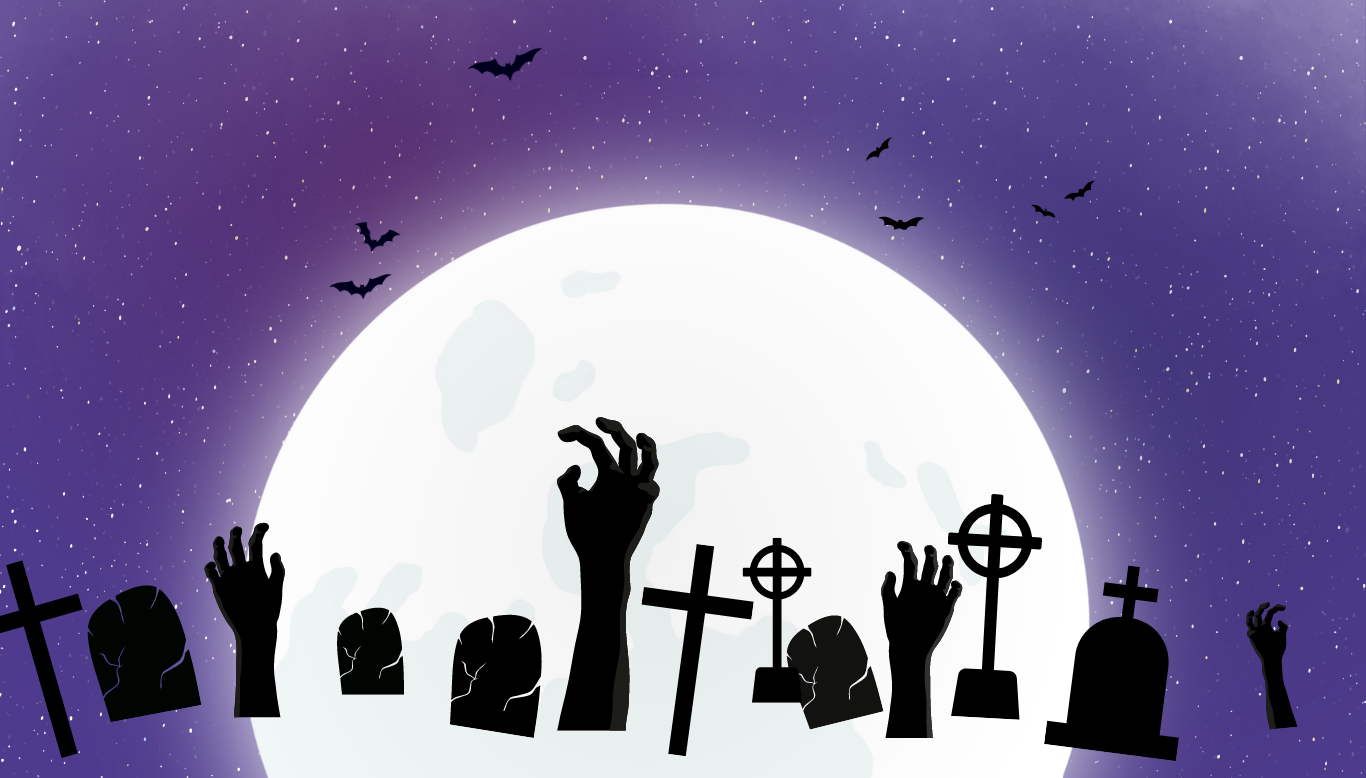
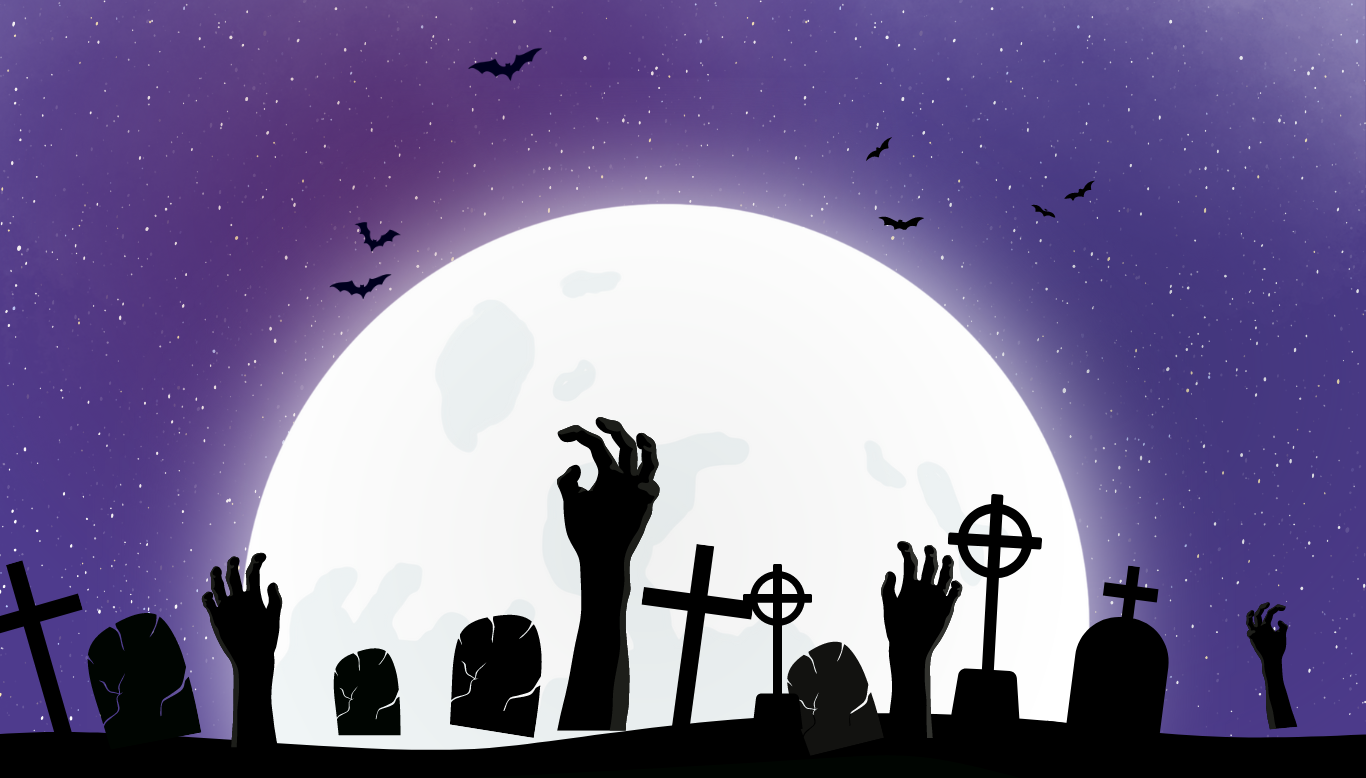
minigame新增gsap動畫、img照片

Changed region(s): [[0.0, 0.6787, 1.0, 1.0]]

diff --git a/minigame.html b/minigame.html
@@ -6,6 +6,13 @@
     <meta charset="UTF-8">
     <meta name="viewport" content="width=device-width, initial-scale=1.0">
     <link rel="stylesheet" href="./src/assets/css/style.css">
+    <script src="https://cdn.jsdelivr.net/npm/gsap@3.12/dist/gsap.min.js"></script>
+    <!-- gsap滾動 -->
+    <script src="https://cdnjs.cloudflare.com/ajax/libs/gsap/3.7.1/ScrollTrigger.min.js"></script>
+    <!-- 分割字元 -->
+    <script src="https://unpkg.com/split-type"></script>
+    <!-- 平滑滾動效果 -->
+    <script src="https://cdn.jsdelivr.net/gh/studio-freight/lenis@1.0.19/bundled/lenis.min.js"></script>
     <title>謎因工作室 | 線上小遊戲</title>
 </head>
 
@@ -21,65 +28,18 @@
     </section>
 
     <section class="sec">
-        <h2>123</h2>
-        <p>在遙遠的小鎮外圍，有一片古老的墓園，這裡隱藏著一個神秘的傳說。墓園中埋葬著一群偉大的守護者，他們曾經保護著一個充滿奇蹟與力量的秘境。這個秘境被稱為「永恆之園」，其中蘊藏著改變命運的力量。為了防止這股力量被濫用，守護者們在生命的最後，決定將秘境的入口封印在墓園深處，並將自己的靈魂綁定在這片土地上，成為詛咒的守衛者。
-        </p>
-        <br>
-        <p>Lorem ipsum dolor sit, amet consectetur adipisicing elit. Vero, placeat magni totam ipsum soluta blanditiis
-            tempore repudiandae rem ex quos fugiat, harum illo optio dolorum, reprehenderit nobis ea omnis doloremque.
-            Rem explicabo harum minima fuga placeat inventore porro vero unde nisi, rerum quo ut deserunt commodi dicta
-            quos, cumque maiores fugit voluptatum veritatis. Aspernatur, magnam mollitia ipsam libero tenetur suscipit.
-            Eligendi ad perspiciatis pariatur, deleniti reiciendis ipsa dolorum dicta aliquid impedit eius doloremque
-            recusandae illo! Tempora, porro dolores. Labore tempore illo nobis fugit. Voluptatum assumenda, vitae
-            incidunt aut voluptas voluptates!
-            Veritatis consequatur dolorem recusandae ex vitae ipsum accusamus repellendus asperiores, molestiae
-            voluptatem. Ullam possimus dolorem dicta repudiandae alias, iusto, magni iste inventore rem commodi maxime,
-            enim aliquid corrupti quibusdam ipsam.
-            Dicta, fuga inventore. Fugit totam, a ea quidem quaerat porro minima explicabo praesentium. Sint
-            exercitationem alias ipsum excepturi modi consectetur aliquam ut itaque eaque, autem neque quod, corporis
-            provident. Optio.
-            Porro enim, perferendis sapiente ratione recusandae similique ipsum eos illum libero unde maiores omnis
-            dolorum dolorem voluptatem tempora corporis earum provident, quasi a explicabo! Iure accusantium amet
-            assumenda fuga dolorem?
-            Libero, itaque magni sed, quaerat, hic illo optio aut voluptate obcaecati repellat officia neque deserunt
-            repellendus perspiciatis voluptatem expedita! Sequi fugiat ipsam sint quasi, soluta mollitia vel quaerat
-            eligendi velit?
-            Consequuntur sit veritatis eaque, dicta accusantium ipsa voluptates fugiat eligendi ea molestias explicabo
-            odit hic vitae! Voluptates nisi fuga unde sequi eos? Sint atque est laborum. Harum animi velit saepe.
-            Ea obcaecati esse sequi quis id quasi ipsa, fugiat aut corrupti at nisi ipsum beatae libero quod autem porro
-            laudantium, perferendis maiores unde est molestiae itaque, debitis harum cupiditate. Quaerat.
-            Cum eaque at fugit accusamus nemo, adipisci facilis veniam iste obcaecati labore modi suscipit minima
-            perferendis architecto laudantium ab eligendi quibusdam quas. Provident illo voluptate nobis reiciendis?
-            Veritatis, ipsam ipsum?
-            A, autem. Dolorum molestias adipisci odit quibusdam neque consectetur minima soluta reiciendis laborum,
-            tenetur iusto. Error rem esse porro repellat, dicta fugiat nihil voluptate quisquam, reprehenderit impedit
-            nostrum hic ipsam.
-            Amet deserunt consequatur ab corporis, odit, atque sit, delectus nostrum aliquam obcaecati inventore
-            dignissimos nesciunt molestiae dolorum ipsa sunt! Distinctio labore quidem omnis soluta, excepturi
-            voluptatum recusandae vel! Adipisci, beatae!
-            Nam deleniti quae, saepe unde alias, quod odit, voluptatibus perferendis adipisci impedit explicabo voluptas
-            totam. Ratione amet doloribus modi cumque consequatur inventore illo exercitationem, eius nam cum facere
-            quaerat quis?
-            Consequatur atque voluptate nisi sequi culpa id, nam facilis reprehenderit quo officia omnis eaque velit
-            assumenda voluptatibus veritatis eligendi pariatur corrupti explicabo nulla quidem asperiores vero
-            accusamus. Quibusdam, dicta accusamus!
-            Incidunt, nobis corporis. Necessitatibus, dolores consectetur! Possimus, sequi provident corporis sapiente
-            nobis sint temporibus modi quia officia sed nesciunt numquam perferendis quidem, facere mollitia assumenda
-            voluptas voluptatum! Iste, alias suscipit.
-            Quia nam esse provident. Similique fugit voluptatem beatae unde possimus, quidem exercitationem reiciendis
-            impedit, inventore reprehenderit minus dolorum cupiditate ex obcaecati iusto perferendis, rerum recusandae
-            eligendi vero dignissimos aliquid maiores?
-            Neque fugit enim magnam dolores labore, sapiente quaerat pariatur velit consequuntur assumenda ad excepturi
-            rem iusto nisi ut fugiat doloribus nobis laboriosam ipsum tenetur sint inventore id, ullam eos. Animi.
-            Accusamus rem suscipit consectetur expedita ea error, cumque quos assumenda, laborum est tenetur odit
-            deleniti, accusantium dolor culpa officia impedit optio ratione excepturi unde! Quam, nobis pariatur?
-            Dolore, quis explicabo?
-            Velit natus error architecto voluptatum minima dignissimos quod accusantium, quaerat odit quasi aspernatur
-            doloremque aut amet quis, voluptatibus ipsum itaque aliquam repellendus voluptates illo. Sequi cumque sunt
-            totam dolore cum.
-            Magnam dolores, modi excepturi iure illum laboriosam amet repellat dolorem eaque commodi illo magni, nemo
-            alias fuga molestias unde numquam. Perspiciatis officiis sunt quae odio incidunt, impedit sint earum
-            dolores.</p>
+        <div class="cemetery_text">
+            <p class="split_text">在遙遠的靈息禁地，古老的墓園靜靜矗立，時間在這裡彷彿失去了意義。<br>生前貪婪的貴族家族沉眠於此，靈魂被詛咒所纏繞，無法獲得安息。</p>
+
+            <p class="split_text">傳說，埋藏在這片土地深處的寶藏，只有穿透黑暗、解開宿命之謎的人才能得見真容。<br>命運的試煉從未如此接近，當陰霧籠罩，亡靈怒吼，你是否願意成為那位踏破詛咒的尋寶者？
+            </p>
+        </div>
+    </section>
+    <div class="minigame_huarong">
+        <img src="./src/assets/img/cube.png" alt="">
+    </div>
+    <section>
+
     </section>
 
 

diff --git a/src/assets/css/style.css b/src/assets/css/style.css
@@ -1,27 +1,9 @@
-<<<<<<< HEAD
-/* Error: expected "{".
- *    ,
- * 20 | );
- *    |  ^
- *    '
- *   sass\basic\_font.scss 20:2  @import
- *   sass\style.scss 7:9         root stylesheet */
-
-<<<<<<< HEAD
-=======
 @charset "UTF-8";
 @import url(../css/reset.css);
 body {
   color: white;
 }
 
-<<<<<<< HEAD
-=======
-<<<<<<< HEAD
-=======
->>>>>>> 37423a0b6397f768e3594e483db80206e0742e5b
->>>>>>> f4d24c5b28cf6d1048127e4ffccbba77d91c2081
->>>>>>> 6d62a8f08502c618163e51af3fee96542c95b2ec
 html,
 body {
   font-family: Noto Sans TC;
@@ -178,19 +160,9 @@ a {
 }
 
 .top a {
-=======
-body::before {
-  font-family: "Source Code Pro", "SF Mono", Monaco, Inconsolata, "Fira Mono",
-      "Droid Sans Mono", monospace, monospace;
-  white-space: pre;
->>>>>>> dev
   display: block;
-  padding: 1em;
-  margin-bottom: 1em;
-  border-bottom: 2px solid black;
-  content: 'Error: expected "{".\a    \2577 \a 20 \2502  );\d\a    \2502   ^\a    \2575 \a   sass\\basic\\_font.scss 20:2  @import\a   sass\\style.scss 7:9         root stylesheet';
+  color: white;
 }
-<<<<<<< HEAD
 .top a:hover {
   color: #FCD15B;
 }
@@ -619,11 +591,7 @@ i.fa-dollar-sign {
 }
 
 .backstage_panel {
-<<<<<<< HEAD
   padding: 20px 0;
-=======
-  padding-top: 20px;
->>>>>>> 6d62a8f08502c618163e51af3fee96542c95b2ec
   width: calc(50% + 40px);
   align-self: flex-end;
   display: flex;
@@ -699,56 +667,6 @@ i.fa-dollar-sign {
   display: flex;
   justify-content: center;
   align-items: center;
-<<<<<<< HEAD
-=======
-<<<<<<< HEAD
-=======
-<<<<<<< HEAD
-=======
-<<<<<<< HEAD
-=======
->>>>>>> 37423a0b6397f768e3594e483db80206e0742e5b
->>>>>>> f4d24c5b28cf6d1048127e4ffccbba77d91c2081
->>>>>>> 6d62a8f08502c618163e51af3fee96542c95b2ec
-}
-
-.backstage_paginator {
-  font-size: 16px;
-  display: flex;
-  justify-content: center;
-  align-items: center;
-  width: 200px;
-}
-.backstage_paginator a {
-  font-size: 18px;
-  line-height: 30px;
-}
-.backstage_paginator a:hover {
-  font-weight: bold;
-}
-.backstage_paginator a:active {
-  color: #FCD15B;
-}
-
-.backstage_page_input {
-  font-size: 16px;
-  width: 30px;
-  margin: 0 8px;
-  background-color: #FFE8BB;
-  border: 0;
-  text-align: center;
-}
-
-.backstage_page_input:focus {
-  outline: 1px solid #262B3F;
-  background-color: white;
-}
-
-/* @import url(./reset.css); */
-/* -------------------------------------------------- */
-body {
-  background-color: #100E24;
->>>>>>> YY
 }
 
 .backstage_paginator {
@@ -1565,17 +1483,8 @@ zombie_btn {
   margin: 0 auto;
 }
 
-<<<<<<< HEAD
-/* -------------------------------------------------------- */
-body {
-  background-color: #100E24;
-}
-
-#wrapper {
-=======
 /* -------------------------preorder 預定主題------------------------------- */
 #preorder_wrapper {
->>>>>>> 37423a0b6397f768e3594e483db80206e0742e5b
   width: 1200px;
   margin: 0 auto;
 }
@@ -1879,7 +1788,6 @@ body {
   cursor: pointer;
 }
 
-<<<<<<< HEAD
 .backstage_page_content {
   display: flex;
   flex-direction: column;
@@ -1930,8 +1838,8 @@ body {
 
 .panel_news {
   justify-content: end;
-=======
-<<<<<<< HEAD
+}
+
 .main-frontpage {
   width: 100%;
   background-image: url(/src/assets/img/BG-fontpage.jpg);
@@ -2195,8 +2103,10 @@ body {
   bottom: 100%;
   transition: 1s;
   transition-delay: 0.75s;
-=======
+}
+
 .minigame_body {
+  background-color: #020912;
   min-height: 100vh;
   overflow-x: hidden;
 }
@@ -2235,12 +2145,14 @@ body {
   transform: translateX(305px);
 }
 
-.sec {
-  background-color: #000;
->>>>>>> f4d24c5b28cf6d1048127e4ffccbba77d91c2081
->>>>>>> 6d62a8f08502c618163e51af3fee96542c95b2ec
+.split_text {
+  font-size: 24px;
+  max-width: 80%;
+  margin: 40px auto;
+}
+
+.cemetery_text {
+  text-align: center;
 }
 
 /*# sourceMappingURL=style.css.map */
-=======
->>>>>>> dev

diff --git a/minigame.js b/minigame.js
@@ -14,3 +14,44 @@ window.addEventListener('scroll', () => {
     gateRight.style.left = value * -0.2 + 'px';
     
 });
+
+//------------------------------------------
+
+const ghostText = new SplitType(".split_text");
+gsap.registerPlugin(ScrollTrigger);
+
+//建立gsap時間軸
+const tlGhost = gsap.timeline();
+
+//設置滾動觸發動畫
+tlGhost.from(".cemetery_text .char", {
+  filter: "blur(20px)",
+  willchange: "filter",
+  stagger: 0.07, //間隔
+  scrollTrigger: {
+    trigger: ".cemetery_text",
+    start: "top center",
+    end: "bottom top+=300", //元素的底部超過視口頂部 100px 時
+    scrub: 1.5,
+    // markers: true,
+    ease: "power4.out",
+    // pin: true
+  }
+});
+
+/*
+trigger: 定義觸發動畫的元素
+start: 動畫開始的位置
+end: 動畫結束的位置
+scrub: 為 true 時，動畫會根據滾動的速度來控制播放進度，使動畫與滾動同步
+ease: 動畫的緩動效果為 power4.out，這會讓動畫逐漸變慢並優雅地停止
+ */
+
+const lenis = new Lenis();
+
+function raf(time) {
+  lenis.raf(time);
+  requestAnimationFrame(raf);
+}
+
+requestAnimationFrame(raf);

diff --git a/src/assets/sass/page/_minigame.scss b/src/assets/sass/page/_minigame.scss
@@ -1,4 +1,5 @@
 .minigame_body {
+    background-color: #020912;
     min-height: 100vh;
     overflow-x: hidden;
 }
@@ -7,7 +8,7 @@
     position: relative;
     display: flex;
     justify-content: center;
-    align-items:center;
+    align-items: center;
     height: 113vh;
 
     background-image: url('../img/cemetery.png');
@@ -36,16 +37,25 @@
     }
 
     #gate-left {
-        
+
         transform: translateX(-282px);
     }
 
     #gate-right {
-        
+
         transform: translateX(305px);
     }
 }
 
-.sec{
-    background-color: #000;
+.split_text {
+    // border: 1px solid white;
+    font-size: 24px;
+    max-width: 80%;
+
+    margin: 40px auto;
+}
+
+.cemetery_text {
+    text-align: center;
+
 }

diff --git a/src/assets/sass/page/_preorder.scss b/src/assets/sass/page/_preorder.scss
@@ -1,15 +1,5 @@
-<<<<<<< HEAD
-$colorfont:(
-    primary:#100E24,
-    secondary:#FEDA77,
-    scccess:#262B3F,
-    danger:#FFE8BB,
-    hover: #FCD15B
-);
-=======
 
 /* -------------------------preorder 預定主題------------------------------- */
->>>>>>> 37423a0b6397f768e3594e483db80206e0742e5b
 
 #preorder_wrapper {
     width: 1200px;

diff --git a/src/assets/sass/style.scss b/src/assets/sass/style.scss
@@ -24,10 +24,7 @@
 @import 'page/orderinfrom';
 @import 'page/pay';
 @import 'page/preorder';
-<<<<<<< HEAD
 @import 'page/bnewsedit';
 @import 'page/bnews';
-=======
 @import 'page/frontpage';
 @import 'page/minigame';
->>>>>>> 6d62a8f08502c618163e51af3fee96542c95b2ec
